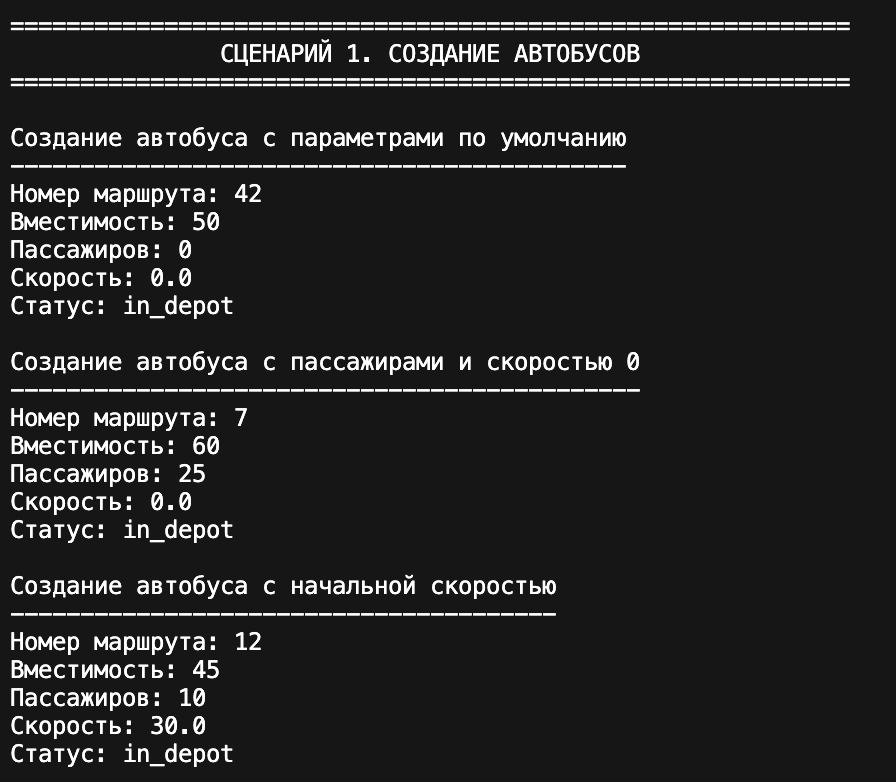
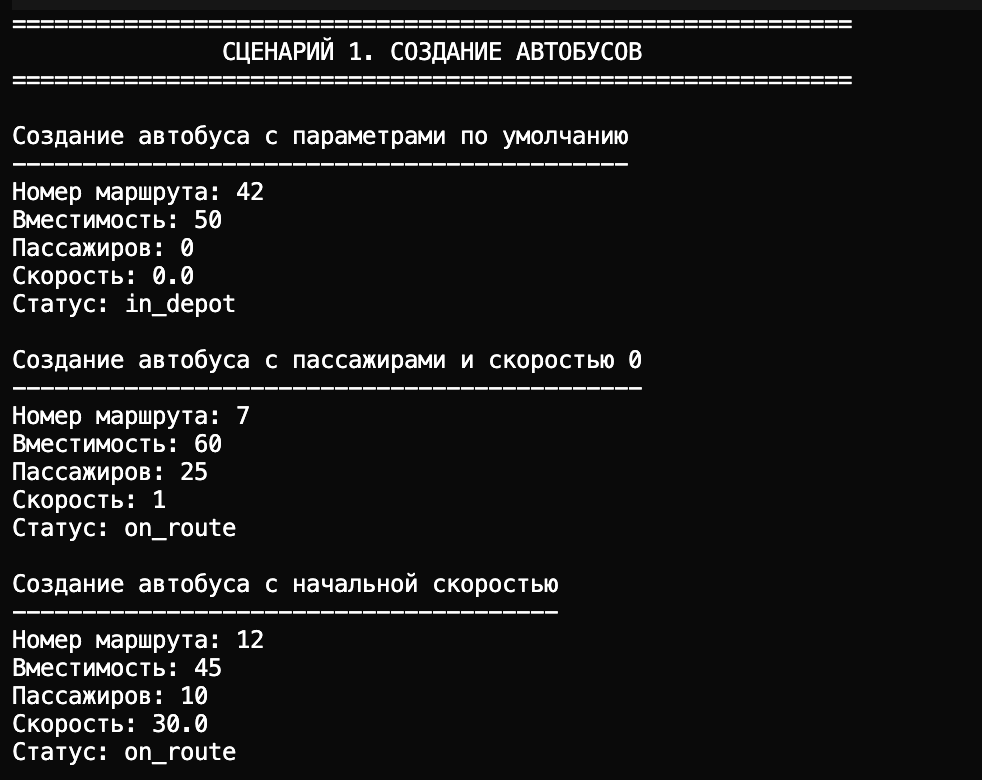
.

Changed region(s): [[0.0, 0.1538, 0.7188, 0.7077], [0.0, 0.0, 0.9688, 0.1231], [0.0, 0.7385, 0.625, 0.9846]]

diff --git a/src/lab01/model.py b/src/lab01/model.py
@@ -1,45 +1,25 @@
 # ЛР-1, транспорт - автобус
 
+from validate import (
+    _validate_capacity,
+    _validate_passenger_count,
+    _validate_route_number,
+    _validate_speed,
+)
+
 class Bus:
     MAX_SPEED = 120  # атрибут класса, макс скорость
 
     def __init__(self, route_number, capacity, current_speed=0, passenger_count=0):
-        self._route_number = self._validate_route_number(route_number)
-        self._capacity = self._validate_capacity(capacity)
-        self._passenger_count = self._validate_passenger_count(passenger_count)
-        self._current_speed = self._validate_speed(current_speed)
+        self._route_number = _validate_route_number(route_number)
+        self._capacity = _validate_capacity(capacity)
+        self._passenger_count = _validate_passenger_count(passenger_count, self._capacity)
+        self._current_speed = _validate_speed(current_speed, self.MAX_SPEED)
         self._state = "in_depot"
-
-    def _validate_route_number(self, value):
-        if type(value) != int:
-            raise TypeError("номер маршрута - целое число")
-        if value < 1 or value > 999:
-            raise ValueError("номер маршрута от 1 до 999")
-        return value
-
-    def _validate_capacity(self, value):
-        if type(value) != int:
-            raise TypeError("вместимость - целое число")
-        if value < 1 or value > 200:
-            raise ValueError("вместимость от 1 до 200")
-        return value
-
-    def _validate_speed(self, value):
-        if type(value) not in (int, float):
-            raise TypeError("скорость - число")
-        v = float(value)
-        if v < 0 or v > self.MAX_SPEED:
-            raise ValueError("скорость от 0 до " + str(self.MAX_SPEED))
-        return round(v, 1)
-
-    def _validate_passenger_count(self, value):
-        if type(value) != int:
-            raise TypeError("кол-во пассажиров - целое число")
-        if value < 0:
-            raise ValueError("пассажиров не может быть меньше 0")
-        if value > self._capacity:
-            raise ValueError("пассажиров больше чем вместимость")
-        return value
+        if self._passenger_count != 0:
+            raise ValueError("в депо пассажиров быть не должно")
+        if self._current_speed != 0:
+            raise ValueError("в депо скорость должна быть 0")
 
     @property
     def route_number(self):
@@ -67,7 +47,10 @@ class Bus:
             raise RuntimeError("в депо скорость 0")
         if self._state == "maintenance":
             raise RuntimeError("на ТО нельзя менять скорость")
-        self._current_speed = self._validate_speed(value)
+        speed = _validate_speed(value, self.MAX_SPEED)
+        if speed < 1:
+            raise ValueError("на маршруте скорость должна быть от 1 до " + str(self.MAX_SPEED))
+        self._current_speed = speed
 
     def __str__(self):
         return "Автобус №%d, мест %d, пассажиров %d, скорость %.1f, %s" % (
@@ -95,11 +78,13 @@ class Bus:
         if self._state == "on_route":
             raise RuntimeError("уже на маршруте")
         self._state = "on_route"
-        self._current_speed = 0
+        self._current_speed = 1
 
     def return_to_depot(self):
         if self._state != "on_route":
             raise RuntimeError("можно только с маршрута")
+        if self._passenger_count > 0:
+            raise RuntimeError("в депо нельзя заезжать с пассажирами")
         self._state = "in_depot"
         self._current_speed = 0
 
@@ -116,8 +101,8 @@ class Bus:
         self._current_speed = 0
 
     def board_passengers(self, count):
-        if self._state == "maintenance":
-            raise RuntimeError("на ТО нельзя сажать")
+        if self._state != "on_route":
+            raise RuntimeError("сажать пассажиров можно только на маршруте")
         if count < 0:
             raise ValueError("кол-во не отрицательное")
         free = self._capacity - self._passenger_count

diff --git a/src/lab01/demo.py b/src/lab01/demo.py
@@ -27,7 +27,9 @@ print("Скорость:", b1.current_speed)
 print("Статус:", b1.state)
 
 print_case("Создание автобуса с пассажирами и скоростью 0")
-b2 = Bus(7, 60, 0, 25)
+b2 = Bus(7, 60)
+b2.start_route()
+b2.board_passengers(25)
 print("Номер маршрута:", b2.route_number)
 print("Вместимость:", b2.capacity)
 print("Пассажиров:", b2.passenger_count)
@@ -35,7 +37,10 @@ print("Скорость:", b2.current_speed)
 print("Статус:", b2.state)
 
 print_case("Создание автобуса с начальной скоростью")
-b3 = Bus(12, 45, 30, 10)
+b3 = Bus(12, 45)
+b3.start_route()
+b3.board_passengers(10)
+b3.current_speed = 30
 print("Номер маршрута:", b3.route_number)
 print("Вместимость:", b3.capacity)
 print("Пассажиров:", b3.passenger_count)
@@ -60,11 +65,14 @@ run_validation_test("отрицательная вместимость", lambda:
 run_validation_test("пассажиров больше вместимости", lambda: Bus(1, 30, 0, 50))
 run_validation_test("отрицательная скорость", lambda: Bus(1, 50, -5))
 run_validation_test("скорость выше MAX_SPEED (120)", lambda: Bus(1, 50, 200))
+run_validation_test("пассажиры в депо при создании", lambda: Bus(11, 40, 0, 5))
+run_validation_test("ненулевая скорость в депо при создании", lambda: Bus(12, 40, 20, 0))
 
 print_section("СЦЕНАРИЙ 3. СВОЙСТВА (GETTER/SETTER)")
 
-b = Bus(5, 50, 0, 20)
+b = Bus(5, 50)
 b.start_route()
+b.board_passengers(20)
 print("\nИсходный автобус (на маршруте):")
 print("  Номер маршрута:", b.route_number)
 print("  Вместимость:", b.capacity)
@@ -82,6 +90,7 @@ print("Новая скорость:", b.current_speed)
 print_case("Попытка установить скорость выше MAX_SPEED")
 run_validation_test("скорость 200", lambda: setattr(b, 'current_speed', 200))
 
+b.alight_passengers(20)
 b.return_to_depot()
 print_case("Попытка изменить скорость в депо")
 run_validation_test("скорость в депо (только 0)", lambda: setattr(b, 'current_speed', 30))
@@ -117,11 +126,12 @@ print("Загрузка %:", b.load_factor())
 
 print_section("СЦЕНАРИЙ 5. ИЗМЕНЕНИЕ СТАТУСОВ")
 
-b = Bus(3, 40, 0, 15)
+b = Bus(3, 40)
 print("Исходный статус:", b.state)
 
 print_case("Выезд на маршрут (start_route)")
 b.start_route()
+b.board_passengers(15)
 print("Статус после выезда:", b.state)
 
 print_case("Возврат в депо (return_to_depot)")
@@ -141,20 +151,24 @@ b.repair_complete()
 print("Статус после ремонта:", b.state)
 
 print_case("Попытка отправить на ТО автобус с пассажирами")
-b2 = Bus(10, 30, 0, 5)
+b2 = Bus(10, 30)
 b2.start_route()
+b2.board_passengers(5)
 run_validation_test("ТО с пассажирами", lambda: b2.send_to_maintenance())
 
 print_case("Попытка высадки в депо (только на маршруте)")
 b3 = Bus(8, 25)
 b3.start_route()
+b3.board_passengers(5)
 b3.alight_passengers(5)
 b3.return_to_depot()
 run_validation_test("высадка в депо", lambda: b3.alight_passengers(1))
 
 print_section("СЦЕНАРИЙ 6. МАГИЧЕСКИЕ МЕТОДЫ")
 
-b = Bus(42, 50, 0, 20)
+b = Bus(42, 50)
+b.start_route()
+b.board_passengers(20)
 print_case("__str__ (пользовательский вывод)")
 print(b)
 
@@ -162,9 +176,15 @@ print_case("__repr__ (отладочный вывод)")
 print(repr(b))
 
 print_case("__eq__ (сравнение автобусов)")
-bus_a = Bus(1, 40, 0, 10)
-bus_b = Bus(1, 40, 0, 10)
-bus_c = Bus(1, 40, 0, 15)
+bus_a = Bus(1, 40)
+bus_b = Bus(1, 40)
+bus_c = Bus(1, 40)
+bus_a.start_route()
+bus_b.start_route()
+bus_c.start_route()
+bus_a.board_passengers(10)
+bus_b.board_passengers(10)
+bus_c.board_passengers(15)
 print("Два автобуса с одинаковыми параметрами: bus_a == bus_b ->", bus_a == bus_b)
 print("Разное кол-во пассажиров: bus_a == bus_c ->", bus_a == bus_c)
 print("Сравнение с не-автобусом: bus_a == 123 ->", bus_a == 123)

diff --git a/src/lab01/validate.py b/src/lab01/validate.py
@@ -1,0 +1,33 @@
+def _validate_route_number(value):
+    if type(value) != int:
+        raise TypeError("номер маршрута - целое число")
+    if value < 1 or value > 999:
+        raise ValueError("номер маршрута от 1 до 999")
+    return value
+
+
+def _validate_capacity(value):
+    if type(value) != int:
+        raise TypeError("вместимость - целое число")
+    if value < 1 or value > 200:
+        raise ValueError("вместимость от 1 до 200")
+    return value
+
+
+def _validate_speed(value, max_speed):
+    if type(value) not in (int, float):
+        raise TypeError("скорость - число")
+    v = float(value)
+    if v < 0 or v > max_speed:
+        raise ValueError("скорость от 0 до " + str(max_speed))
+    return round(v, 1)
+
+
+def _validate_passenger_count(value, capacity):
+    if type(value) != int:
+        raise TypeError("кол-во пассажиров - целое число")
+    if value < 0:
+        raise ValueError("пассажиров не может быть меньше 0")
+    if value > capacity:
+        raise ValueError("пассажиров больше чем вместимость")
+    return value

diff --git a/README.md b/README.md
@@ -6,10 +6,7 @@
 - Запрещает недопустимые операции (скорость в депо, посадка на ТО, высадка не на маршруте, отправка на ТО с пассажирами)
 - Предоставляет удобный интерфейс через свойства (@property)
 
-
 # Реализованный класс Bus
-
-
 
 **Закрытые поля:**
 
@@ -74,12 +71,7 @@
 - Демонстрируется работа `__eq__`
 ![3](./img/lab01/3.png)
 
-### Атрибут класса
-
-- Чтение `Bus.MAX_SPEED` через класс
-- Чтение `bus.MAX_SPEED` через экземпляр
-
-Показать разницу между атрибутом класса и обращением через объект
+### Операции с пассажирами 
 
 ![4](./img/lab01/4.png)
 
@@ -112,7 +104,6 @@
 - `repair_complete()` — снова в депо
 
 Прослеживается смена состояний и запрет недопустимых переходов
-
 
 ### Ограничения по состоянию
 
